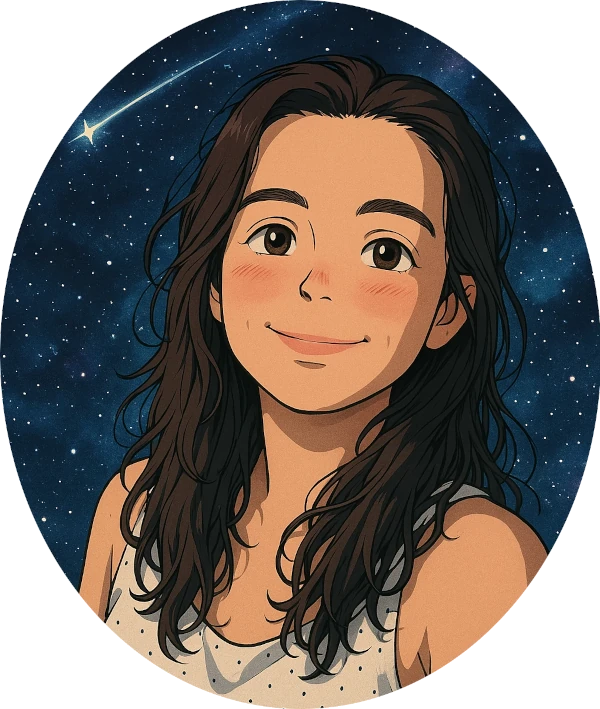
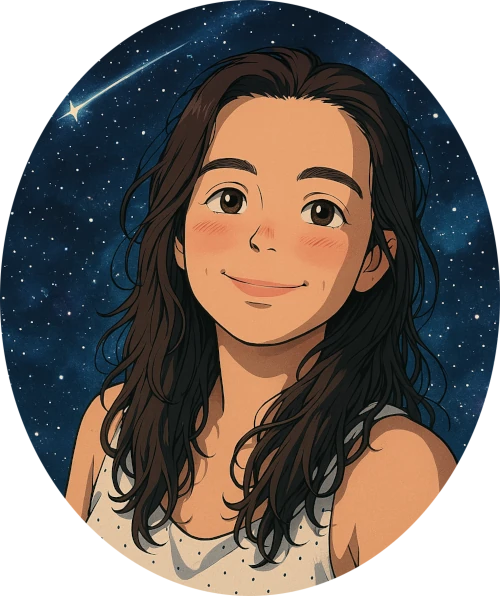
update pic

diff --git a/src/containers/AboutMe/_aboutme.scss b/src/containers/AboutMe/_aboutme.scss
@@ -12,7 +12,7 @@
 
         &__pic {
             height: 450px;
-            width: 450px;
+            width: auto;
         }
 
     &__text {
